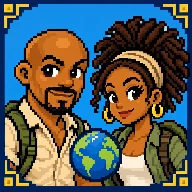
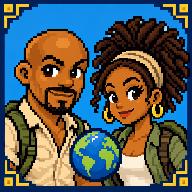
C&C test build v1.1.0 · t4: Controls tab, Esc/M keys, QA mode, Home Screen install

diff --git a/candcgame-test/play/index.html b/candcgame-test/play/index.html
@@ -1,4 +1,4 @@
-<!doctype html><html lang="en"><head><meta charset="utf-8"><meta name="robots" content="noindex"><meta name="viewport" content="width=device-width,initial-scale=1,viewport-fit=cover"><meta name="theme-color" content="#04192e"><link rel="icon" type="image/png" sizes="32x32" href="../assets/global-ui/BRAND_FAVICON_32.png"><link rel="icon" type="image/png" sizes="16x16" href="../assets/global-ui/BRAND_FAVICON_16.png"><link rel="apple-touch-icon" href="../assets/global-ui/BRAND_APPLE_TOUCH_ICON.png"><title>Claude &amp; Constance · Around the World</title><link rel="stylesheet" href="./game-hud.css"><link rel="stylesheet" href="./global-game.css"><link rel="stylesheet" href="./mobile.css"><script src="./landscape-contract.js" defer></script><script type="module" src="./mobile-main.mjs"></script></head><body><main id="game"><div id="surface" class="play-surface" hidden><canvas id="run-canvas" width="960" height="540" tabindex="0" aria-label="Playable stage"></canvas>      <div id="run-hud" class="gameplay-hud" aria-label="Game status"><div class="hud-panel">
+<!doctype html><html lang="en"><head><meta charset="utf-8"><meta name="robots" content="noindex"><meta name="viewport" content="width=device-width,initial-scale=1,viewport-fit=cover"><meta name="theme-color" content="#04192e"><link rel="icon" type="image/png" sizes="32x32" href="../assets/global-ui/BRAND_FAVICON_32.png"><link rel="icon" type="image/png" sizes="16x16" href="../assets/global-ui/BRAND_FAVICON_16.png"><link rel="apple-touch-icon" href="../assets/global-ui/BRAND_APPLE_TOUCH_ICON.png"><link rel="manifest" href="./manifest.webmanifest"><meta name="apple-mobile-web-app-capable" content="yes"><meta name="mobile-web-app-capable" content="yes"><meta name="apple-mobile-web-app-status-bar-style" content="black-translucent"><meta name="apple-mobile-web-app-title" content="C&amp;C test"><title>Claude &amp; Constance · Around the World</title><link rel="stylesheet" href="./game-hud.css"><link rel="stylesheet" href="./global-game.css"><link rel="stylesheet" href="./mobile.css"><script src="./landscape-contract.js" defer></script><script type="module" src="./mobile-main.mjs"></script></head><body><main id="game"><div id="surface" class="play-surface" hidden><canvas id="run-canvas" width="960" height="540" tabindex="0" aria-label="Playable stage"></canvas>      <div id="run-hud" class="gameplay-hud" aria-label="Game status"><div class="hud-panel">
         <div class="health-block"><div class="hud-kicker">HEALTH</div><div id="run-hearts" class="life-hud" aria-label="Lives"><span class="life-heart full"></span><span class="life-heart full"></span><span class="life-heart full active"></span></div></div>
         <div class="progress-hud"><div class="stage-title" id="run-stage-title"></div><div class="progress-track" id="run-progress" role="progressbar" aria-label="Stage progress" aria-valuemin="0" aria-valuemax="100"><img class="progress-path" id="run-path" alt=""><div class="progress-marker claude" id="run-progress-marker"></div></div></div>
       </div></div>

diff --git a/candcgame-test/play/mobile.css b/candcgame-test/play/mobile.css
@@ -52,3 +52,11 @@ body:has(#surface[data-global-screen="start"]) #version,body:has(#surface[data-g
 #game .global-continent{transform:translate(-50%,-50%) scale(var(--map-k,1))}
 /* On Options the label sits in the header's empty right side (bottom-right covered a setting, fit.mjs). */
 body:has(#surface[data-global-screen="options"]) #version{bottom:auto;top:calc(env(safe-area-inset-top) + 20px * var(--uiz,1))}
+/* QA mode (test builds only; the public build has no #qa elements) */
+#qa{position:fixed;inset:calc(env(safe-area-inset-top) + 8px) auto auto calc(env(safe-area-inset-left) + 8px);z-index:3000;max-width:min(560px,calc(100vw - 16px));max-height:calc(100dvh - 16px);overflow:auto;padding:10px;border:2px solid #d8a83f;border-radius:8px;background:rgba(4,25,46,.96);color:#fff2cd;font:14px/1.3 system-ui,-apple-system,sans-serif}
+#qa[hidden],#qa-open[hidden]{display:none}
+#qa h2{font-size:15px;margin:0;flex:1}
+#qa .qa-row{display:flex;gap:8px;align-items:center;margin:6px 0;flex-wrap:wrap}
+#qa button,#qa select,#qa-open{min-height:44px;padding:0 12px;border:1px solid #d8a83f;border-radius:6px;background:#10283f;color:#fff2cd;font:inherit}
+#qa p{margin:0;max-width:520px;overflow-wrap:anywhere;font-size:12px}
+#qa-open{position:fixed;z-index:2900;left:calc(env(safe-area-inset-left) + 4px);top:50%;transform:translateY(-50%);min-width:44px;font:12px system-ui,sans-serif;opacity:.7}

diff --git a/candcgame-test/play/global-game.css b/candcgame-test/play/global-game.css
@@ -224,4 +224,8 @@ body[data-mode=game] .play-heading{display:none;}
  .global-soundtrack-layout{margin-top:0}
  .global-soundtrack-playlist{max-height:min(76svh,390px)}
  .global-soundtrack-controls button{min-height:44px}
-}
+}.global-controls-switch{display:flex;justify-content:center;gap:10px;margin:0 0 10px;}
+.global-controls-list{display:grid;grid-template-columns:max-content 1fr;gap:10px 16px;align-items:baseline;margin:0;}
+.global-controls-list dt{color:#ffdc54;white-space:nowrap;}
+.global-controls-list dd{margin:0;line-height:1.7;}
+@media(max-height:500px){.global-controls-list{gap:6px 14px}.global-controls-list dd{line-height:1.45}}
